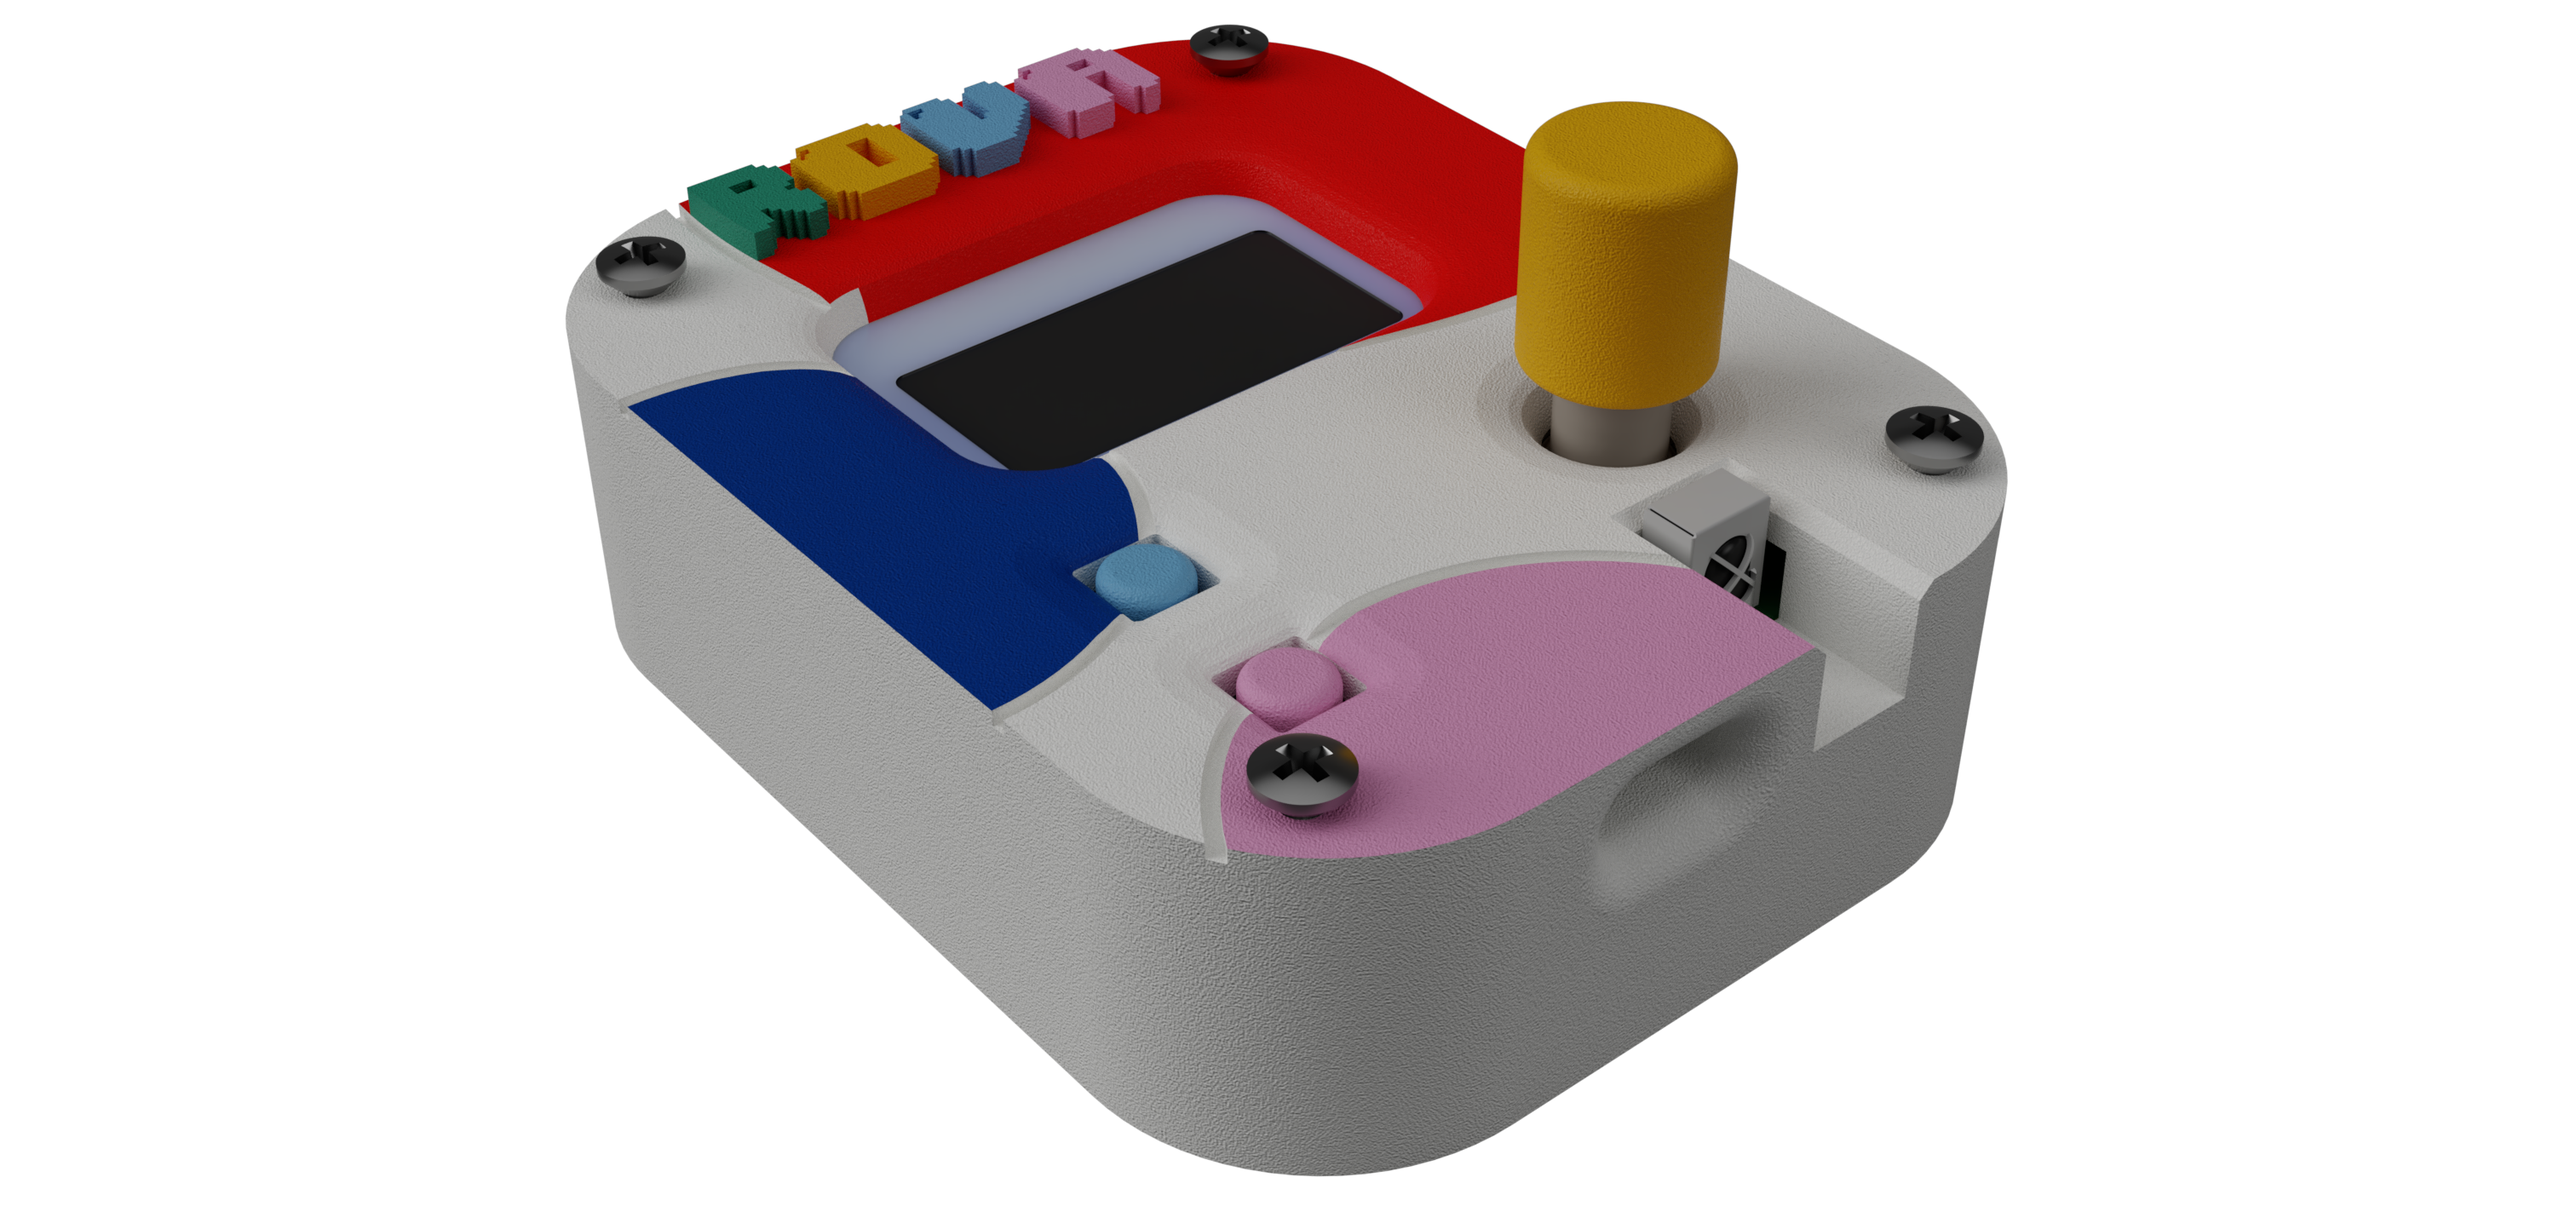
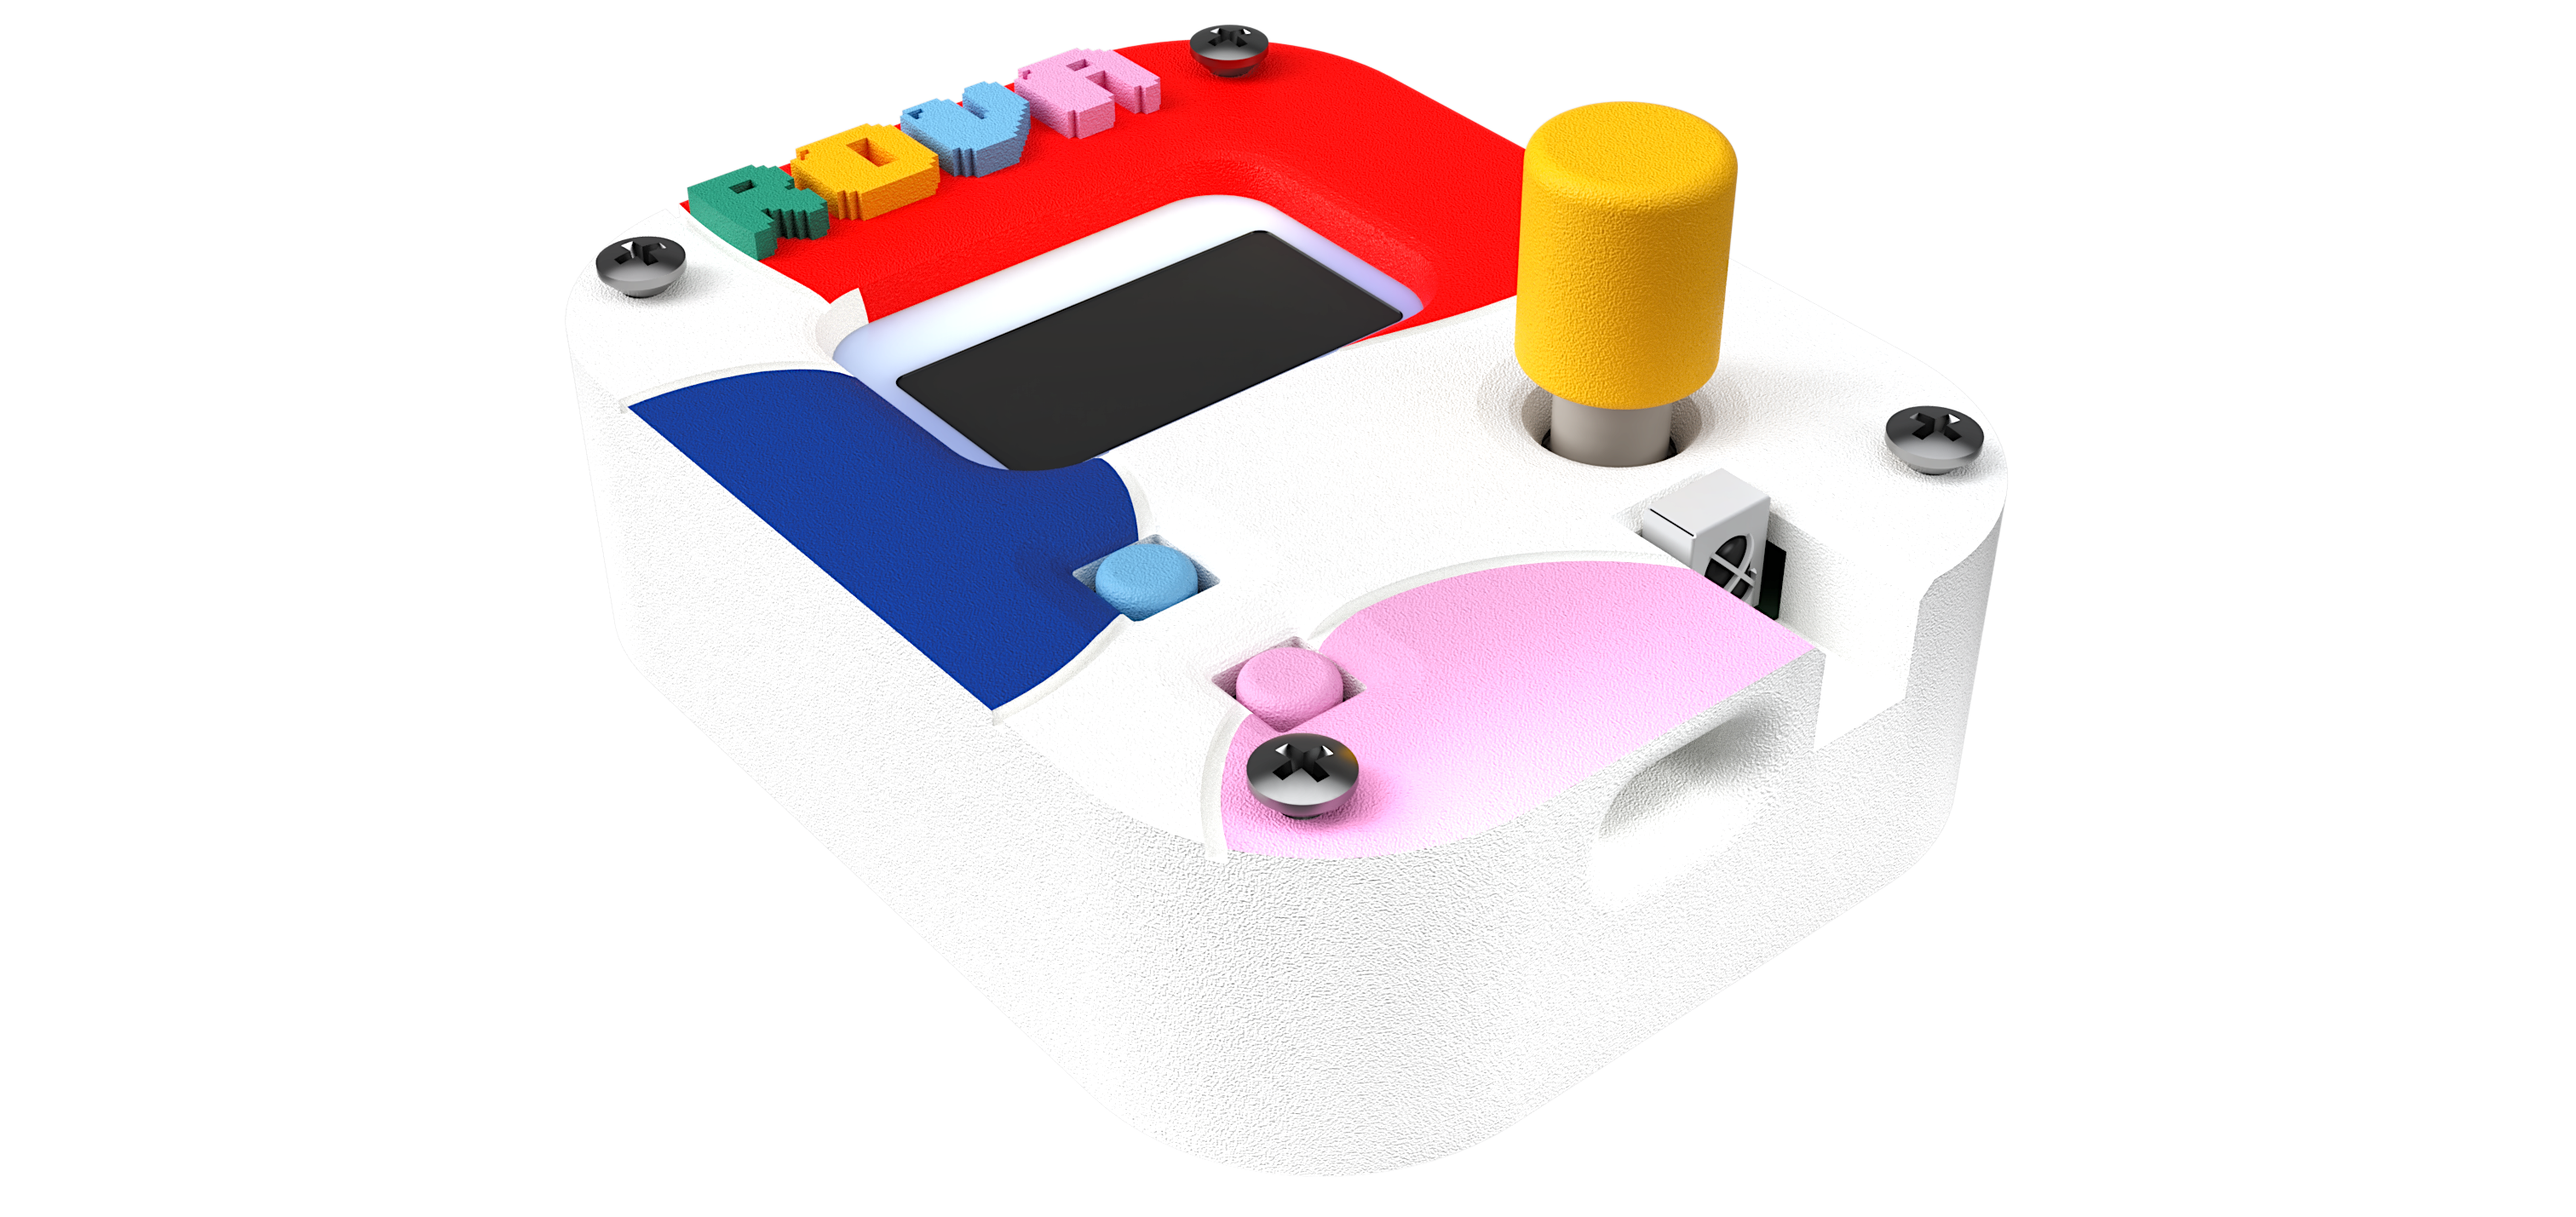
enhacned the images

diff --git a/README.md b/README.md
@@ -207,7 +207,7 @@ Rova/
 Contributions, suggestions, and improvments are always welcome.
 
 ```bash
-git clone https://github.com/<your-username>/Rova.git
+git clone https://github.com/Sudo-Aju/Rova.git
 cd Rova
 ```
 
